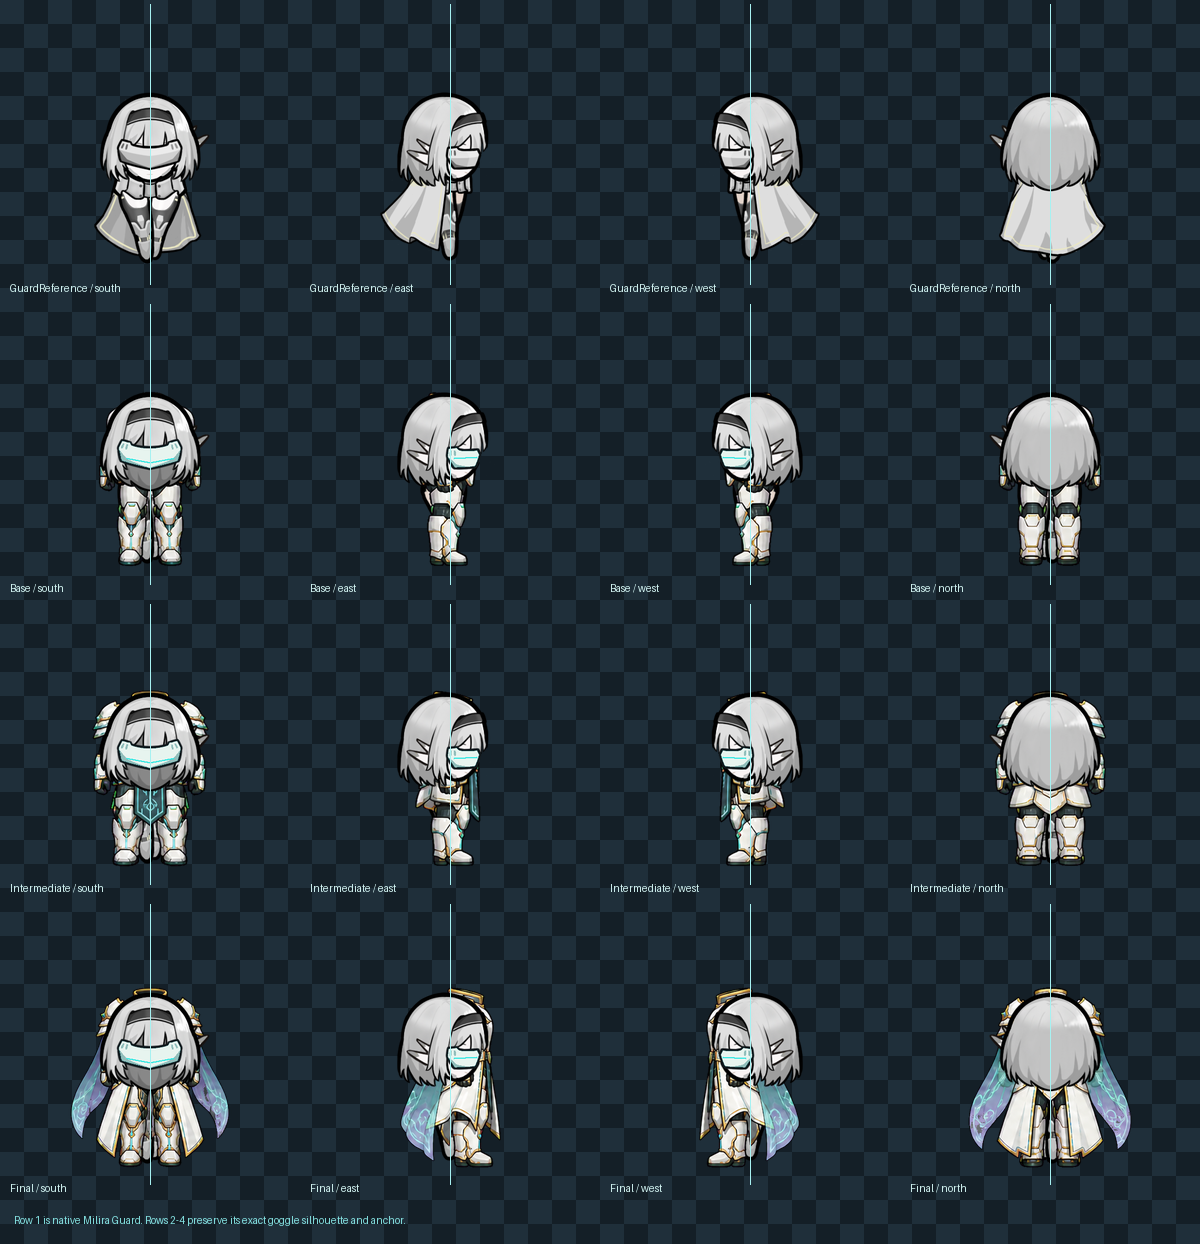
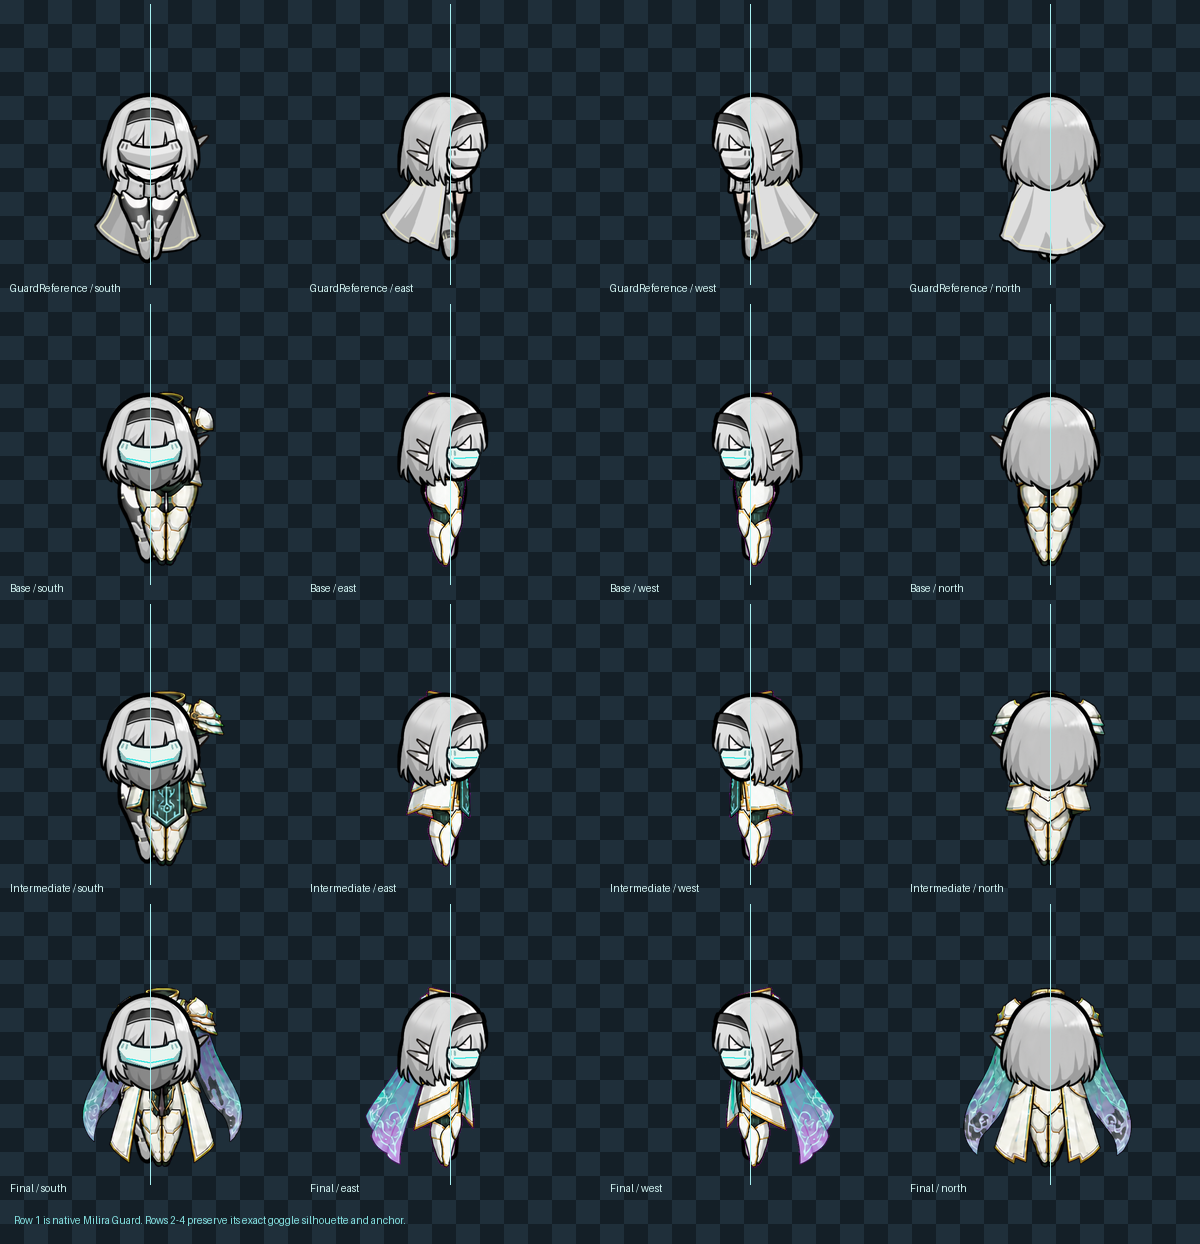
Remove Shenji side-arm remnants

diff --git a/Source/rebuild_shenji_armor_v4.py b/Source/rebuild_shenji_armor_v4.py
@@ -1,10 +1,10 @@
-"""Build the three Shenji armor tiers from the fitted-arm 3x4 atlas.
+"""Build the three Shenji armor tiers from locked front/back and side art.
 
 The generated atlas is only a design source. This deterministic pass removes
 the layout padding, scales every direction onto the native 512px Milian pawn
-canvas, and writes the exact apparel paths loaded by RimWorld. The armour uses
-native Milian construction: compact neutral limbs remain in the apparel
-silhouette while the weapon is drawn independently by the carried node.
+canvas, and writes the exact apparel paths loaded by RimWorld. Front and back
+stay locked to the approved atlas; the side source is deliberately separate so
+no generated arm, sleeve, hand or gauntlet can leak back into the silhouette.
 """
 
 from pathlib import Path
@@ -13,7 +13,8 @@ from PIL import Image
 
 
 MOD = Path(__file__).resolve().parents[1]
-ATLAS = MOD / "ArtSource" / "GeneratedAssets" / "Shenji" / "ShenjiArmor_Orthographic_FittedArms_v6_transparent.png"
+ATLAS = MOD / "ArtSource" / "GeneratedAssets" / "Shenji" / "ShenjiArmor_Orthographic_ArmlessHover_v9_transparent.png"
+SIDE_ATLAS = MOD / "ArtSource" / "GeneratedAssets" / "Shenji" / "ShenjiArmor_SideOnly_Armless_v10_transparent.png"
 OUTPUT = MOD / "Content" / "Textures" / "Yunjianzi" / "Apparel" / "Shenji"
 
 ROWS = ("Base", "Intermediate", "Final")
@@ -32,7 +33,7 @@ WIDTH_SCALE = {
 }
 
 
-def source_cell(atlas: Image.Image, row: int, column: int) -> Image.Image:
+def source_cell(atlas: Image.Image, row: int, column: int) -> tuple[Image.Image, float]:
     left = round(column * atlas.width / 4)
     right = round((column + 1) * atlas.width / 4)
     # Image generation leaves slightly larger breathing room above the first
@@ -45,18 +46,33 @@ def source_cell(atlas: Image.Image, row: int, column: int) -> Image.Image:
     bounds = cell.getchannel("A").getbbox()
     if bounds is None:
         raise RuntimeError(f"Empty armor cell row={row}, column={column}")
-    return cell.crop(bounds)
+    # The generator composes every body on the centre of its atlas cell. Keep
+    # that design-space axis after trimming transparent padding. In particular,
+    # the Final side cape is much wider behind the torso; centring its cropped
+    # bounding box displaced the armour away from the independently drawn head.
+    anchor_x = cell.width / 2 - bounds[0]
+    return cell.crop(bounds), anchor_x
 
 
-def place(source: Image.Image, tier: str, direction: str) -> Image.Image:
+def side_source_cell(atlas: Image.Image, row: int) -> tuple[Image.Image, float]:
+    """Extract one of the three explicitly limbless east-facing side sprites."""
+    top = round(row * atlas.height / 3)
+    bottom = round((row + 1) * atlas.height / 3)
+    cell = atlas.crop((0, top, atlas.width, bottom))
+    bounds = cell.getchannel("A").getbbox()
+    if bounds is None:
+        raise RuntimeError(f"Empty side armor cell row={row}")
+    anchor_x = cell.width / 2 - bounds[0]
+    return cell.crop(bounds), anchor_x
+
+
+def place(source: Image.Image, source_anchor_x: float, tier: str, direction: str) -> Image.Image:
     target_h = TARGET_HEIGHT[tier]
     natural_w = source.width * target_h / source.height
     target_w = round(natural_w * WIDTH_SCALE[(tier, direction)])
     fitted = source.resize((target_w, target_h), Image.Resampling.LANCZOS)
-    # All three directions use the same neck/foot axis.  In profile the source
-    # contains a trailing cape, but centring the complete silhouette still puts
-    # the collar directly under the native Milian head.
-    x = round(256 - target_w / 2)
+    scaled_anchor_x = source_anchor_x * target_w / source.width
+    x = round(256 - scaled_anchor_x)
     y = TARGET_BOTTOM[tier] - target_h
     canvas = Image.new("RGBA", (512, 512))
     canvas.alpha_composite(fitted, (x, y))
@@ -65,12 +81,17 @@ def place(source: Image.Image, tier: str, direction: str) -> Image.Image:
 
 def main() -> None:
     atlas = Image.open(ATLAS).convert("RGBA")
+    side_atlas = Image.open(SIDE_ATLAS).convert("RGBA")
     OUTPUT.mkdir(parents=True, exist_ok=True)
     for row, tier in enumerate(ROWS):
         built = {}
         for direction in ("south", "east", "north"):
-            column = COLUMNS.index(direction)
-            image = place(source_cell(atlas, row, column), tier, direction)
+            if direction == "east":
+                source, anchor_x = side_source_cell(side_atlas, row)
+            else:
+                column = COLUMNS.index(direction)
+                source, anchor_x = source_cell(atlas, row, column)
+            image = place(source, anchor_x, tier, direction)
             path = OUTPUT / f"ShenjiArmor_{tier}_Female_{direction}.png"
             image.save(path, optimize=True)
             built[direction] = image
